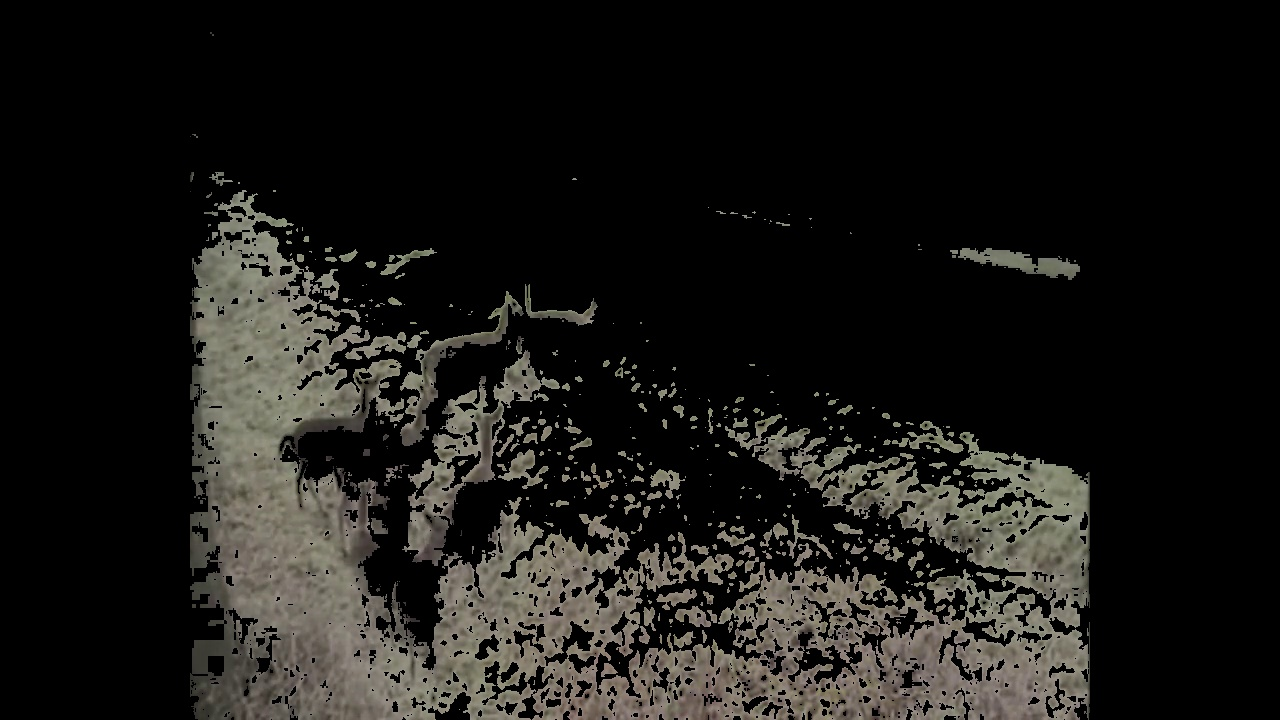
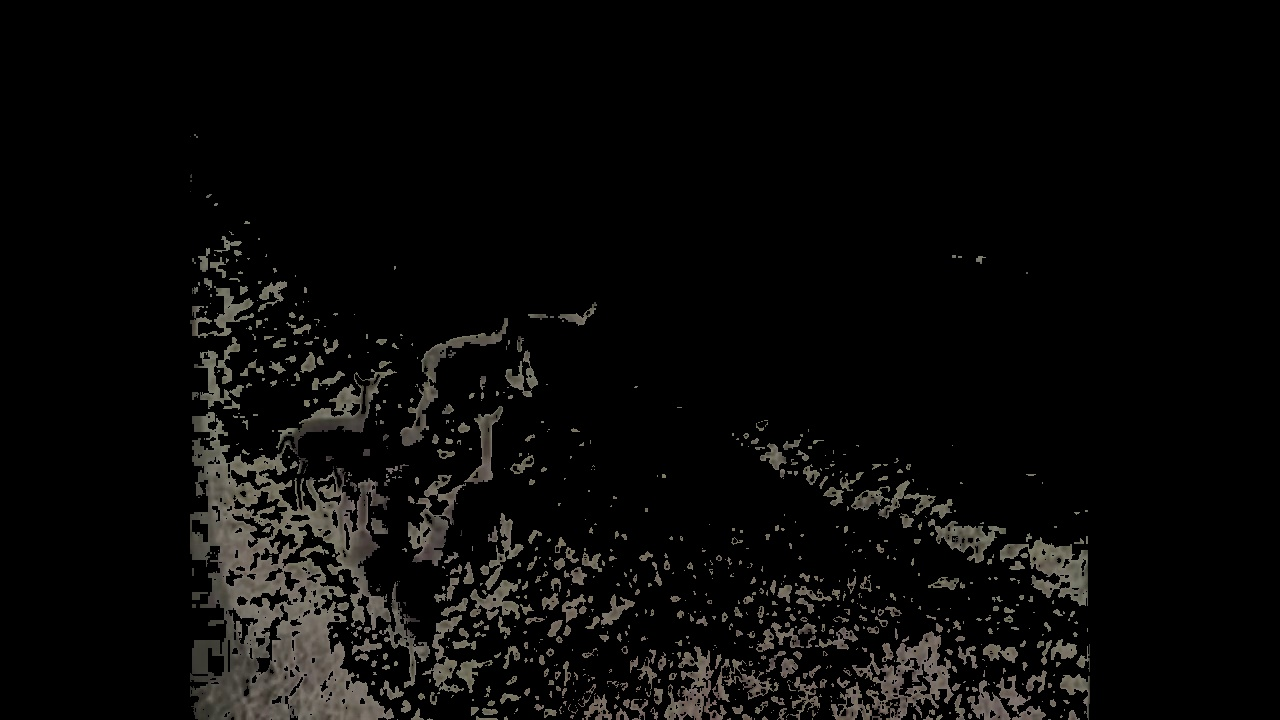
Got signaling working. Could use some fine tuning.

diff --git a/get_direction.py b/get_direction.py
@@ -1,0 +1,82 @@
+import cv2
+import numpy as np
+
+# Returns 1 if getting closer
+# Returns 0 if stationary
+# Returns -1 if getting further away
+
+def get_direction_any(prev_object_centers, object_centers, road_contours):
+
+    matched_centers = match_centers(object_centers, prev_object_centers)
+
+    for match in match_centers:
+        g = 1
+
+
+def get_direction_one(prev_object_centers, object_centers, road_contours):
+
+    if not prev_object_centers or not object_centers:
+        return 0
+
+    prev_distances = []
+    current_distances = []
+
+    for center in prev_object_centers:
+        prev_distances.append(get_shortest_distance(center, road_contours))
+
+    for center in object_centers:
+        current_distances.append(get_shortest_distance(center, road_contours))
+
+    prev_min = min(prev_distances)
+    curr_min = min(current_distances)
+
+    direction = prev_min / curr_min
+
+    upper = 1.001
+    lower = 0.999
+
+    if direction > upper:
+        return 1
+    
+    if direction < lower:
+        return -1
+    
+    return 0
+
+def match_centers(object_centers, prev_object_centers):
+
+    matched_centers = []
+
+    for center in prev_object_centers:
+        nearest = center
+        shortest_distance = np.inf(float)
+        for prev_center in object_centers:
+            distance = get_distance(prev_center, center)
+            if distance < shortest_distance:
+                shortest_distance = distance
+                nearest = prev_center
+        if shortest_distance < 50:
+            match_centers.append(center, nearest)
+        else:
+            match_centers.append(center, None)
+
+
+
+def get_shortest_distance(center, contours):
+
+    # Create a binary image to draw contours on
+    image = np.zeros((500, 500), dtype=np.uint8)
+    cv2.drawContours(image, contours, -1, (255), 1)
+
+    # Find the shortest distance
+    shortest_distance = np.float32('inf')
+
+    for contour in contours:
+        distance = cv2.pointPolygonTest(contour, center, True)
+        if distance < shortest_distance:
+            shortest_distance = distance
+    
+    return shortest_distance
+
+def get_distance(point1, point2):
+    return np.sqrt((point1[0]-point2[0])**2 + (point1[1]-point2[1])**2)

diff --git a/main.py b/main.py
@@ -3,6 +3,7 @@ from extract_frames import extract_frames
 from detect_motion import detect_motion
 from get_road_lines import get_road_lines
 from identify_objects import identify_objects
+from get_direction import get_direction_any, get_direction_one
 
     # Get first frame, set as 'prev'
 
@@ -64,6 +65,9 @@ def main():
     # plt.show()
 
     frame_rate = 5
+    object_centers = []
+    direction = 0
+    signal_counter = 0
 
     # Loop until video ends (exit using 'ctrl+C' or simply 'q')
     while frame_exists:
@@ -82,7 +86,28 @@ def main():
             prev_frame = frames[i - frame_rate]
             next_frame = frames[i + frame_rate]
 
-            rectangles = identify_objects(prev_frame, current_frame, next_frame)
+            prev_object_centers = object_centers
+            object_centers = identify_objects(prev_frame, current_frame, next_frame)
+            road_contours = get_road_lines(frames[i])
+
+            if prev_object_centers:
+                direction = get_direction_one(prev_object_centers, object_centers, road_contours)
+
+        if direction == 1:
+            signal_counter = 25
+        else:
+            signal_counter -= 1
+
+        # Draws color signal indicator in upper left corner
+        if signal_counter > 0:
+            current_frame[0:100,0:100] = (0,0,128)  # Maintains red
+        elif signal_counter > -50:
+            current_frame[0:100,0:100] = (0,128,128) # Yellow if objects are stationary
+        else:
+            current_frame[0:100,0:100] = (0,128,0) # Green if no movement has been detected for a while
+
+        
+            
 
         # Show current_frame
         cv2.imshow('frame', current_frame)
@@ -96,12 +121,15 @@ def main():
 
         i += 1
 
+    
+
+    """
     line_image = get_road_lines(frames[0])
 
     cv2.imshow('road lines', line_image)
     cv2.waitKey(0)  # Wait indefinitely for a key press
     cv2.destroyAllWindows()  # Close all OpenCV windows
-    
+    """
     # Exit program gracefully
     video.release()
     cv2.destroyAllWindows()

diff --git a/get_road_lines.py b/get_road_lines.py
@@ -25,9 +25,29 @@ def get_road_lines(frame):
     # Apply dilation to binary_img
     mask_dilated = cv2.dilate(mask, kernel, iterations=1)
 
-    cv2.imshow('edges', mask_dilated)
-    cv2.waitKey(0)  # Wait indefinitely for a key press
-    cv2.destroyAllWindows()  # Close all OpenCV windows
+    mask_dilated = cv2.bitwise_not(mask_dilated)
+
+    # Clean up sides of image
+    mask_dilated[0:,0:200] = 0
+    mask_dilated[0:,-200:] = 0
+
+    contours = cv2.findContours(mask_dilated, cv2.RETR_EXTERNAL, cv2.CHAIN_APPROX_NONE)
+
+    #color_image = cv2.cvtColor(mask_dilated, cv2.COLOR_GRAY2BGR)
+    #color_image = cv2.drawContours(color_image, contours[0], -1, (255, 0, 0), 3)
+
+    #cv2.imshow('edges', color_image)
+    #cv2.waitKey(0)  # Wait indefinitely for a key press
+    #cv2.destroyAllWindows()  # Close all OpenCV windows
+
+    for contour in contours[0]:
+        area = cv2.contourArea(contour)
+        if area < 500:
+            mask_dilated = cv2.drawContours(mask_dilated, [contour], 0, (0, 0, 0), -1)
+
+    contours = cv2.findContours(mask_dilated, cv2.RETR_EXTERNAL, cv2.CHAIN_APPROX_NONE)
+
+    return contours[0]
 
     # Edge detection
     edges = cv2.Canny(mask_dilated, 50, 150)

diff --git a/identify_objects.py b/identify_objects.py
@@ -69,21 +69,26 @@ def identify_objects(past_frame, current_frame, future_frame):
     areas.sort(key=lambda x: x[1], reverse=True)
 
     i = 0
-    rectangles.clear
+    #rectangles.clear
+    object_centers = []
 
     for area in areas:
         if i < 5:
-            rectangles.append((area[0][0], area[0][1], area[0][2], area[0][3]))
+            #rectangles.append((area[0][0], area[0][1], area[0][2], area[0][3]))
+            object_centers.append(rec_center(area[0][0], area[0][1], area[0][2], area[0][3]))
             draw_rectangle(current_frame, area[0][0], area[0][1], area[0][2], area[0][3])
             i += 1
     
-    return rectangles
+    return object_centers
 
 # For testing. Delete later
 identify_objects.call = 0
 
 def rec_area(top, bottom, left, right):
     return (top - bottom) * (right - left)
+
+def rec_center(top, bottom, left, right):
+    return ((top+bottom)/2, (left+right)/2)
 
 # Code pulled from Assignment 9, Modifies rectangle color.
 def draw_rectangle(img, top, bottom, left, right):
